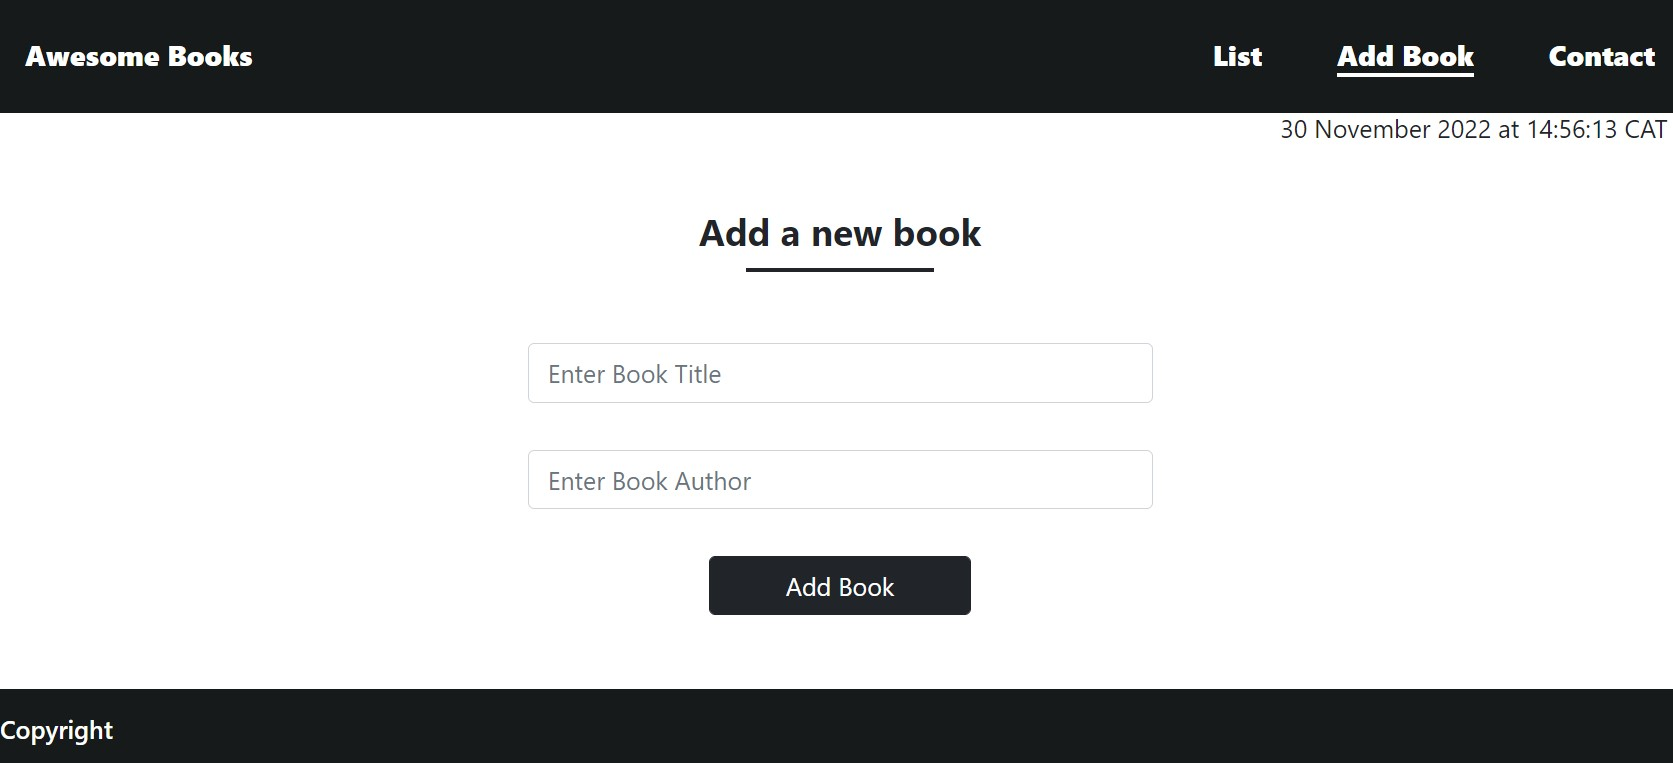
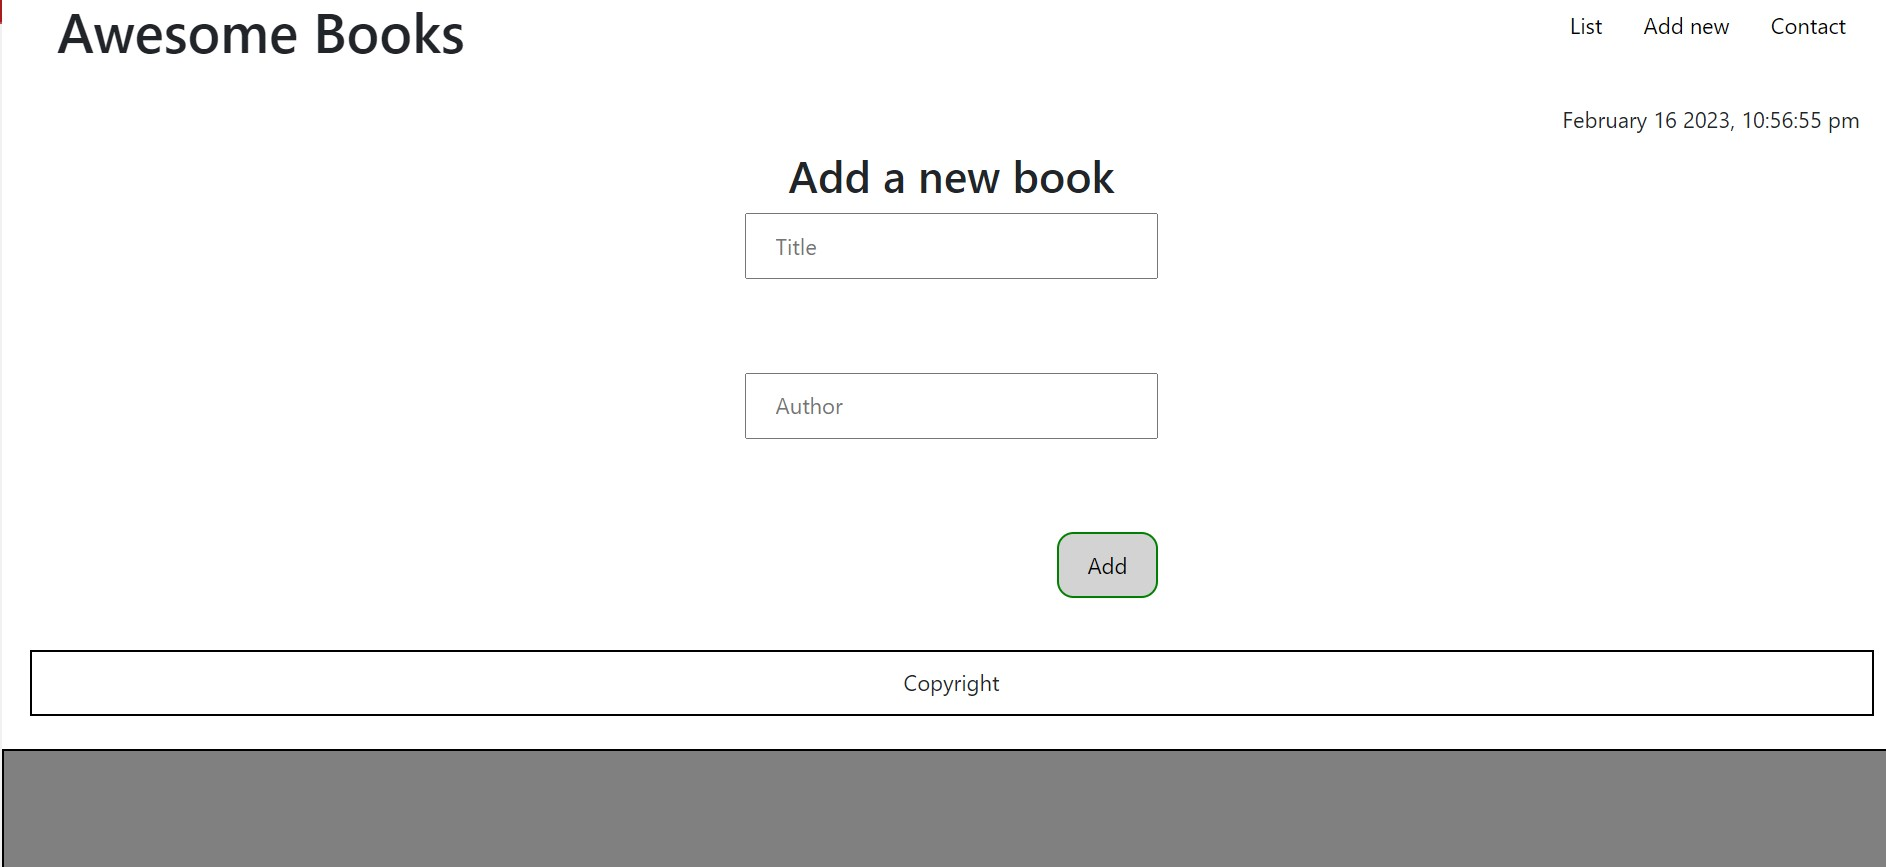
Modify js files to remove classes

diff --git a/index.js b/index.js
@@ -10,21 +10,53 @@ import {
   formSection,
   contactSection,
   dayDate,
+  booksContainer,
 } from './module/variables.js';
-import Book from './module/constructor.js';
-import Library from './module/library.js';
+// import Book from './modules/book.js';
 import { dateNow } from './module/dates.js';
 
-const library = new Library();
-library.updateBooks();
+let bookList = [];
+
+const localData = localStorage.getItem('bookList');
+if (localData !== null) {
+  bookList = JSON.parse(localData);
+}
+
+const removeBook = (bookId) => {
+  bookList = bookList.filter((book) => book.id !== parseInt(bookId, 10));
+};
+
+const storeBooks = () => {
+  localStorage.setItem('bookList', JSON.stringify(bookList));
+};
+
+// eslint-disable-next-line no-unused-vars
+const updateBooks = () => {
+  booksContainer.textContent = '';
+  bookList.forEach((book) => {
+    const booksSection = `<div class='Book__section'>
+    <div class='Book__section-item'>${book.title} by ${book.author}</div>
+    <button class='remove-button' id="${book.id}">Remove</button>
+   </div>`;
+    booksContainer.innerHTML += booksSection;
+  });
+  const removeButtons = document.querySelectorAll('.remove-button');
+  removeButtons.forEach((button) => button.addEventListener('click', (e) => {
+    removeBook(e.target.id);
+    updateBooks();
+  }));
+  storeBooks();
+};
 
 addButton.addEventListener('click', (e) => {
   e.preventDefault();
-  const Title = titleInput.value;
-  const Author = authorInput.value;
-  const newBook = new Book(Title, Author, Date.now());
-  library.bookList.push(newBook);
-  library.updateBooks();
+  const book = {
+    id: Date.now(),
+    title: titleInput.value,
+    author: authorInput.value,
+  };
+  bookList.push(book);
+  updateBooks();
   form.reset();
 });
 

diff --git a/index.css b/index.css
@@ -10,7 +10,6 @@ header {
 
 h2 {
   text-align: center;
-  font-weight: 600;
 }
 
 section {
@@ -18,7 +17,7 @@ section {
 }
 
 .library-section {
-  padding: 10px;
+  padding: 20px;
 }
 
 .Books__Section {
@@ -124,7 +123,9 @@ form {
   border: 2px solid black;
   margin-left: 20px;
   margin-right: 20px;
-  size: 30px;
+  margin-top: -80px;
+  text-align: left;
+
 }
 
 .hide {
@@ -136,4 +137,9 @@ form {
   height: 120px;
   width: 100%;
   border: 2px solid black;
+}
+
+p {
+  text-align: left !important;
+
 }
